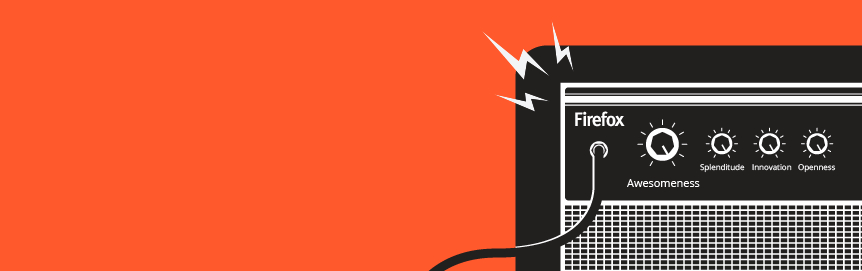
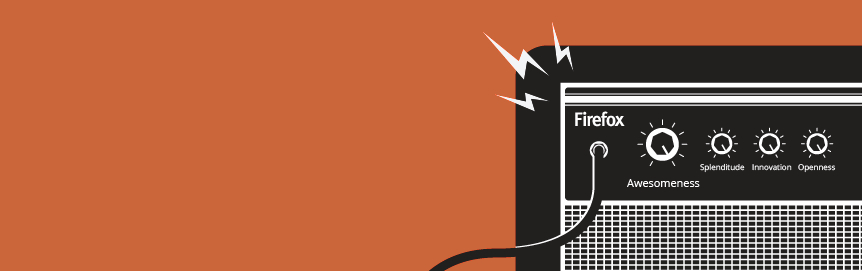
fix promo font-face path, change amp firefox bg color (bug 912712)

diff --git a/media/css/impala/promos.less b/media/css/impala/promos.less
@@ -729,9 +729,9 @@
 }
 @font-face {
   font-family: 'Yellowtail';
+  src: url('../../css/impala/fonts/Yellowtail.woff') format('woff');
   font-style: normal;
   font-weight: 400;
-  src: url('fonts/Yellowtail.woff') format('woff');
 }
 
 #promos #amp-your-firefox {
@@ -784,7 +784,7 @@
             font-size: 20px;
         }
         &:last-child {
-            font-family: "Yellowtail";
+            font-family: "Yellowtail", "Cursive";
             font-size: 40px;
         }
     }
